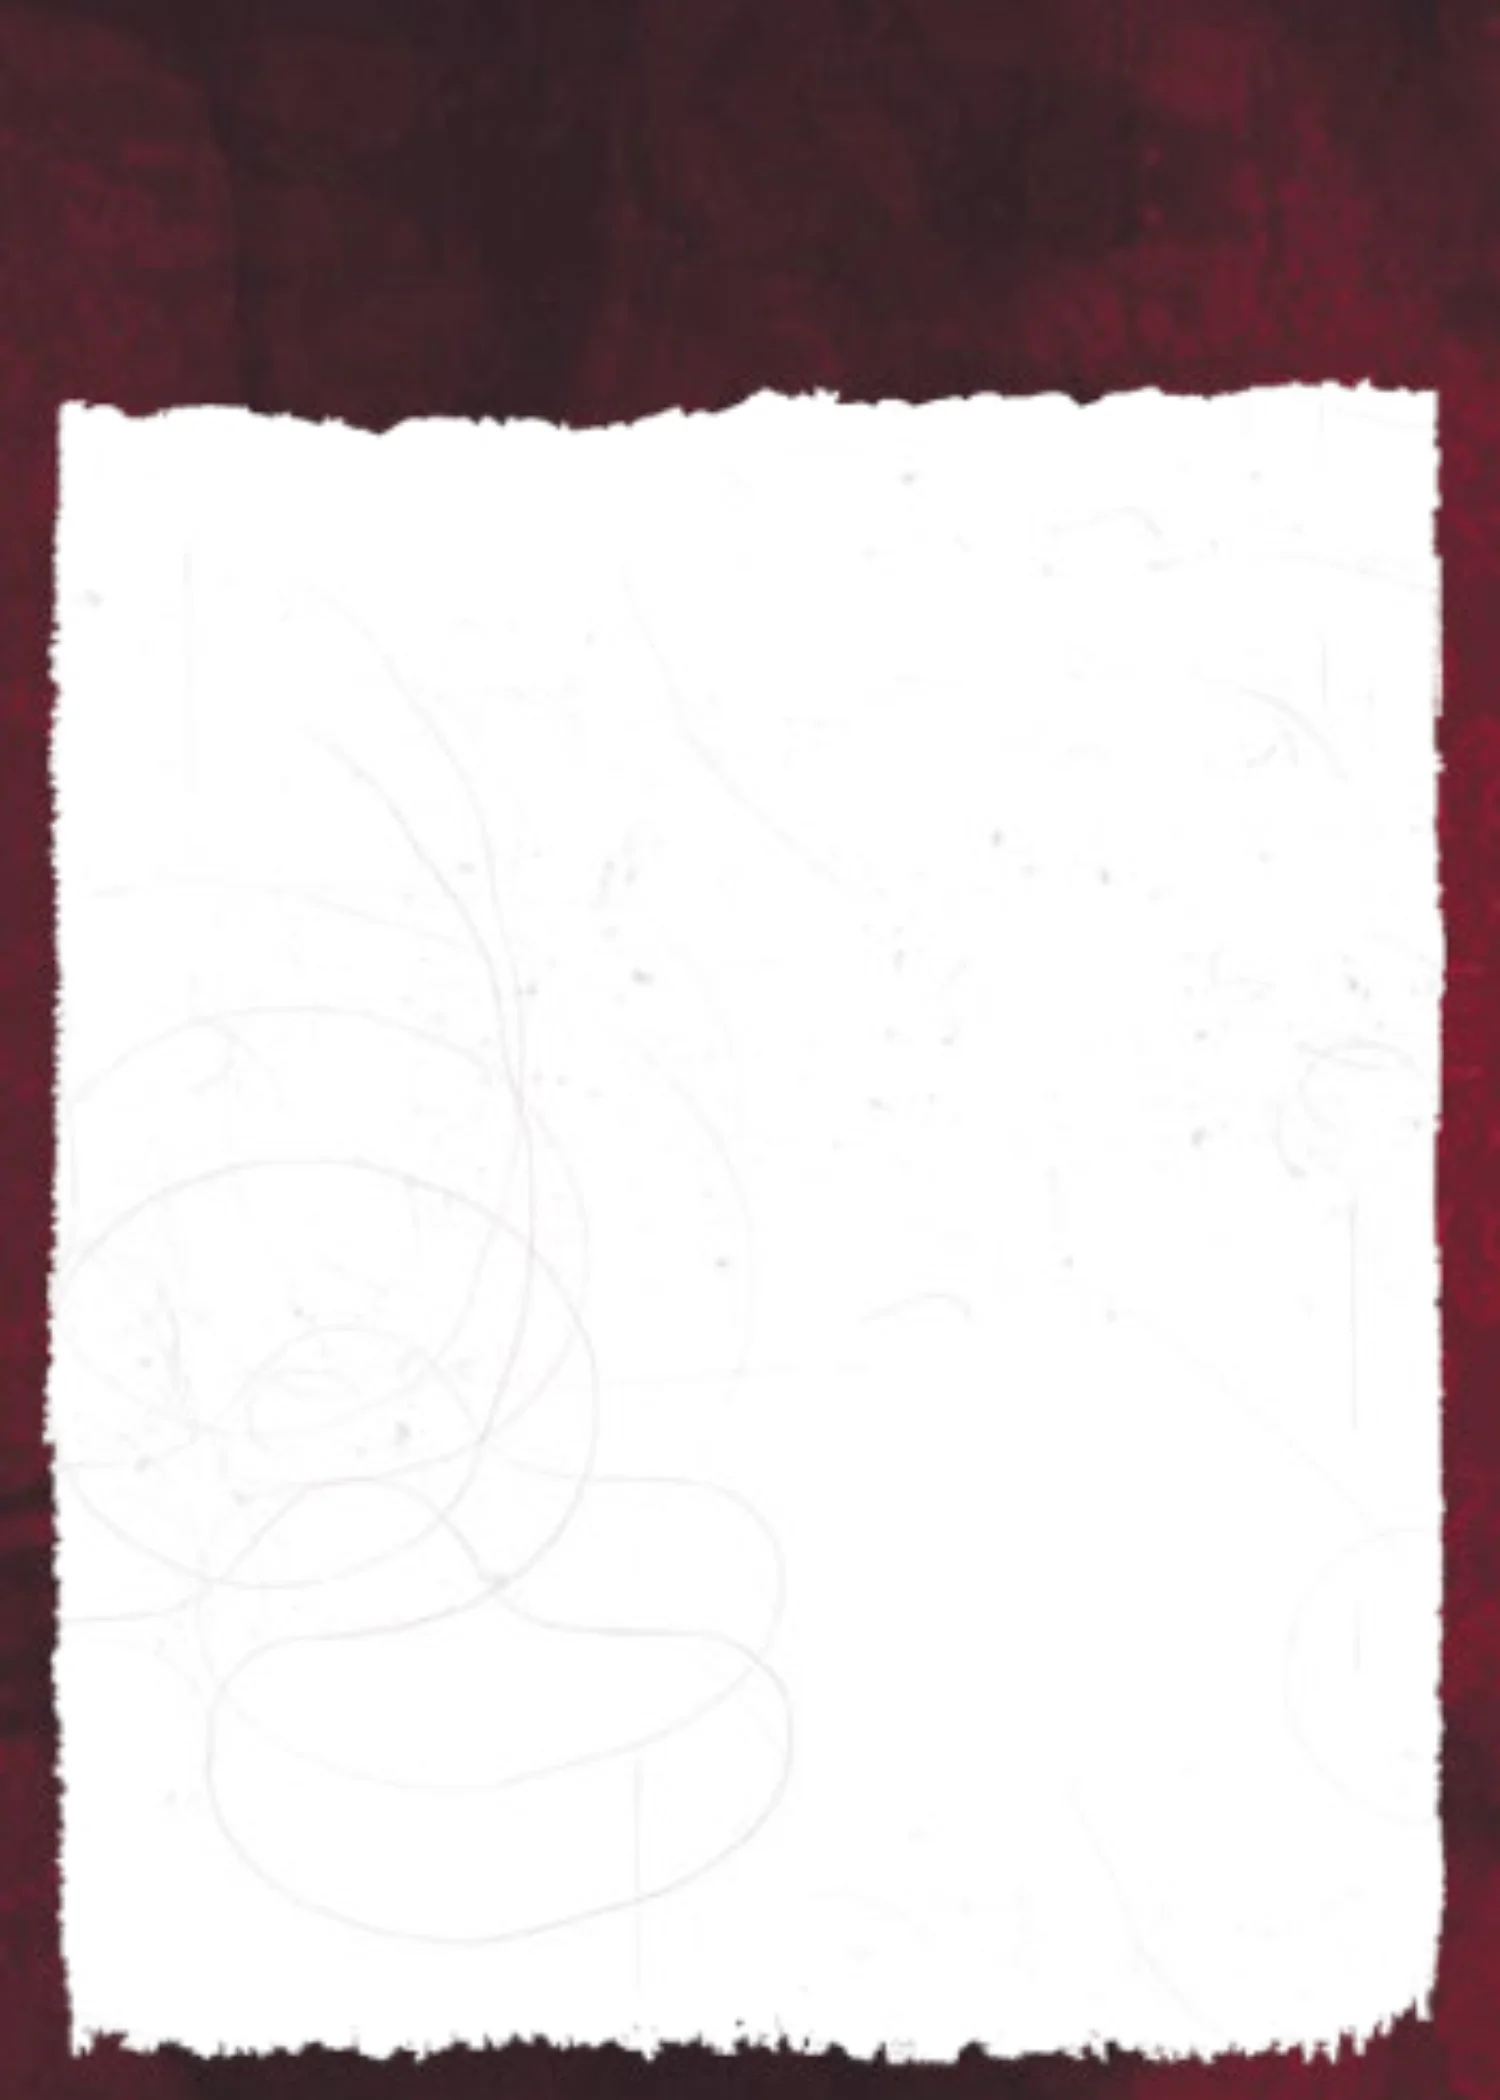
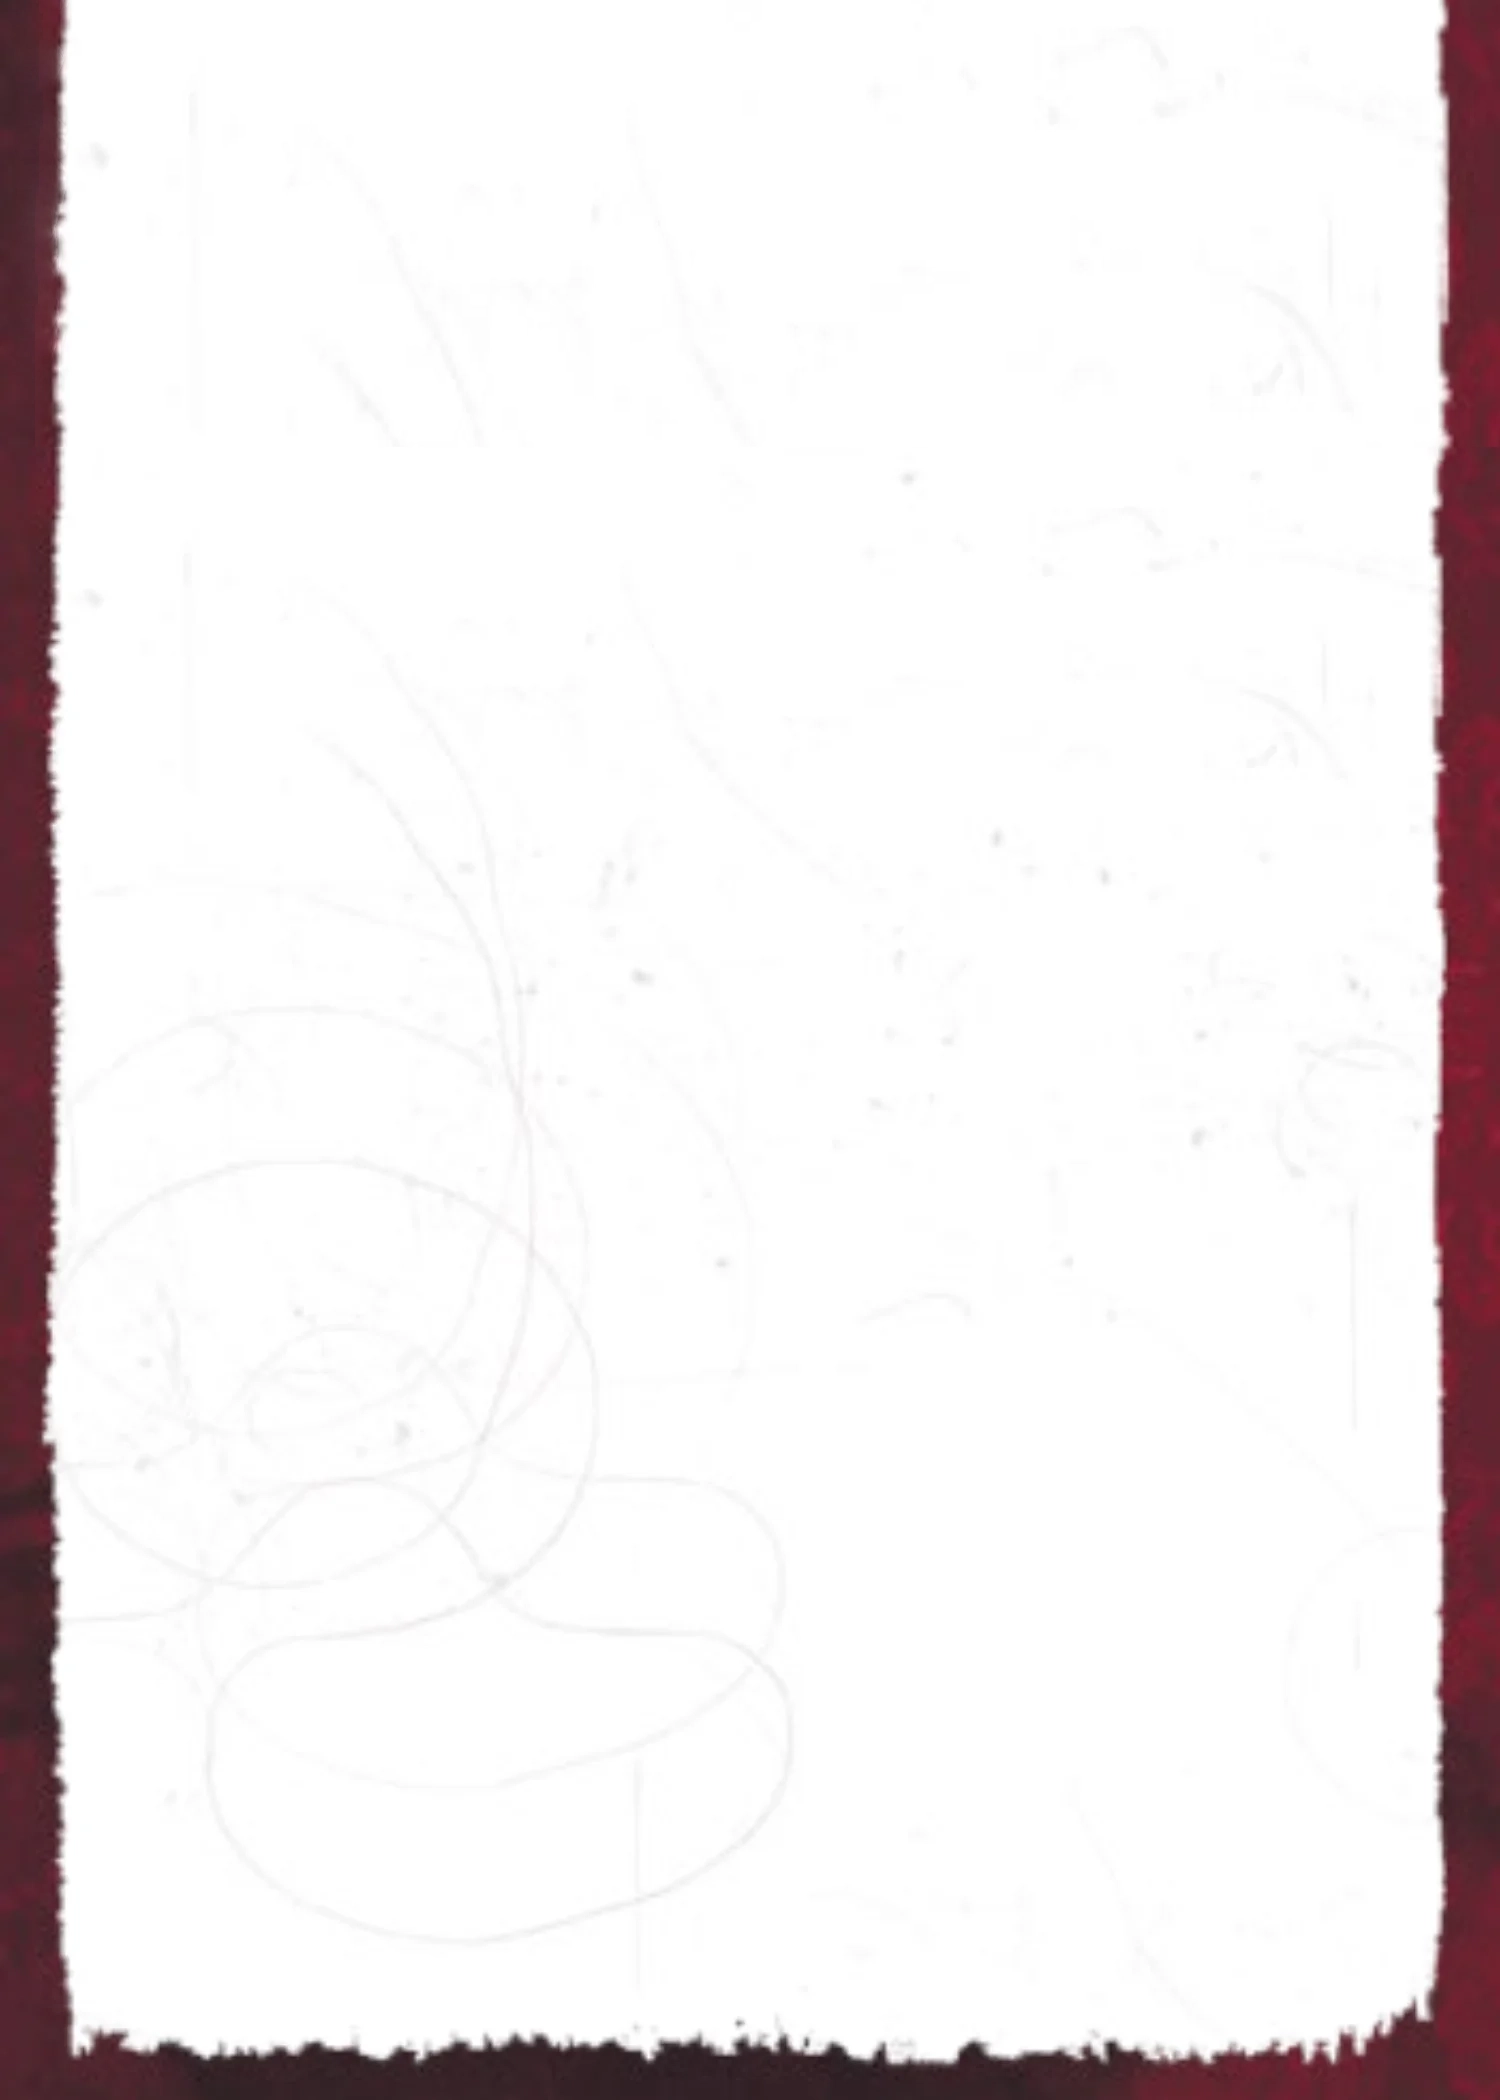
v1.0.62: chat card title uses Foundry default font
The Cezanne cursive made the item title hard to read on the new chat card
asset. Title now inherits Foundry's default font, renders bold 18px in near-
black (#111) with no text-shadow — cleaner contrast against either the white
parchment body or the red-banded card top.

Changed region(s): [[0.0307, 0.0, 1.0, 0.2167]]

diff --git a/styles/override.css b/styles/override.css
@@ -815,12 +815,13 @@ game-pause .vtr-pause-icon img {
   background: transparent !important;
 }
 .worldbuilding.chat-card .item-name {
-  font-family: "Cezanne VTR", cursive, serif;
-  font-size: 22px;
-  font-weight: normal;
-  line-height: 1.15;
-  color: #2b1a0c;
-  text-shadow: 0 1px 1px rgba(255, 255, 255, 0.55);
+  /* Foundry default font for the title — clean and readable. */
+  font-family: inherit;
+  font-size: 18px;
+  font-weight: bold;
+  line-height: 1.2;
+  color: #111;
+  text-shadow: none;
   margin: 0 0 10px;
   padding: 0;
   border-bottom: none;